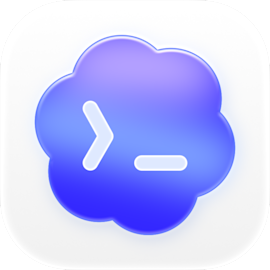
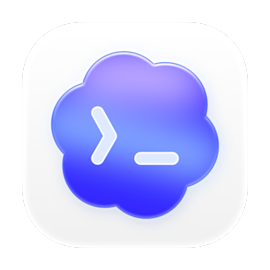
fix: 更新删除确认按钮边框颜色，调整应用图标大小

Changed region(s): [[0.1185, 0.1185, 0.8889, 0.8889], [0.2963, 0.3556, 0.4444, 0.6519], [0.4741, 0.563, 0.7111, 0.6519]]

diff --git a/codex_session_delete/inject/renderer-inject.js b/codex_session_delete/inject/renderer-inject.js
@@ -115,7 +115,7 @@
         margin-top: 18px;
       }
       .codex-delete-confirm-actions button {
-        border: 1px solid #d1d5db;
+        border: 1px solid #d9d9d9;
         border-radius: 7px;
         padding: 6px 12px;
         background: #ffffff;